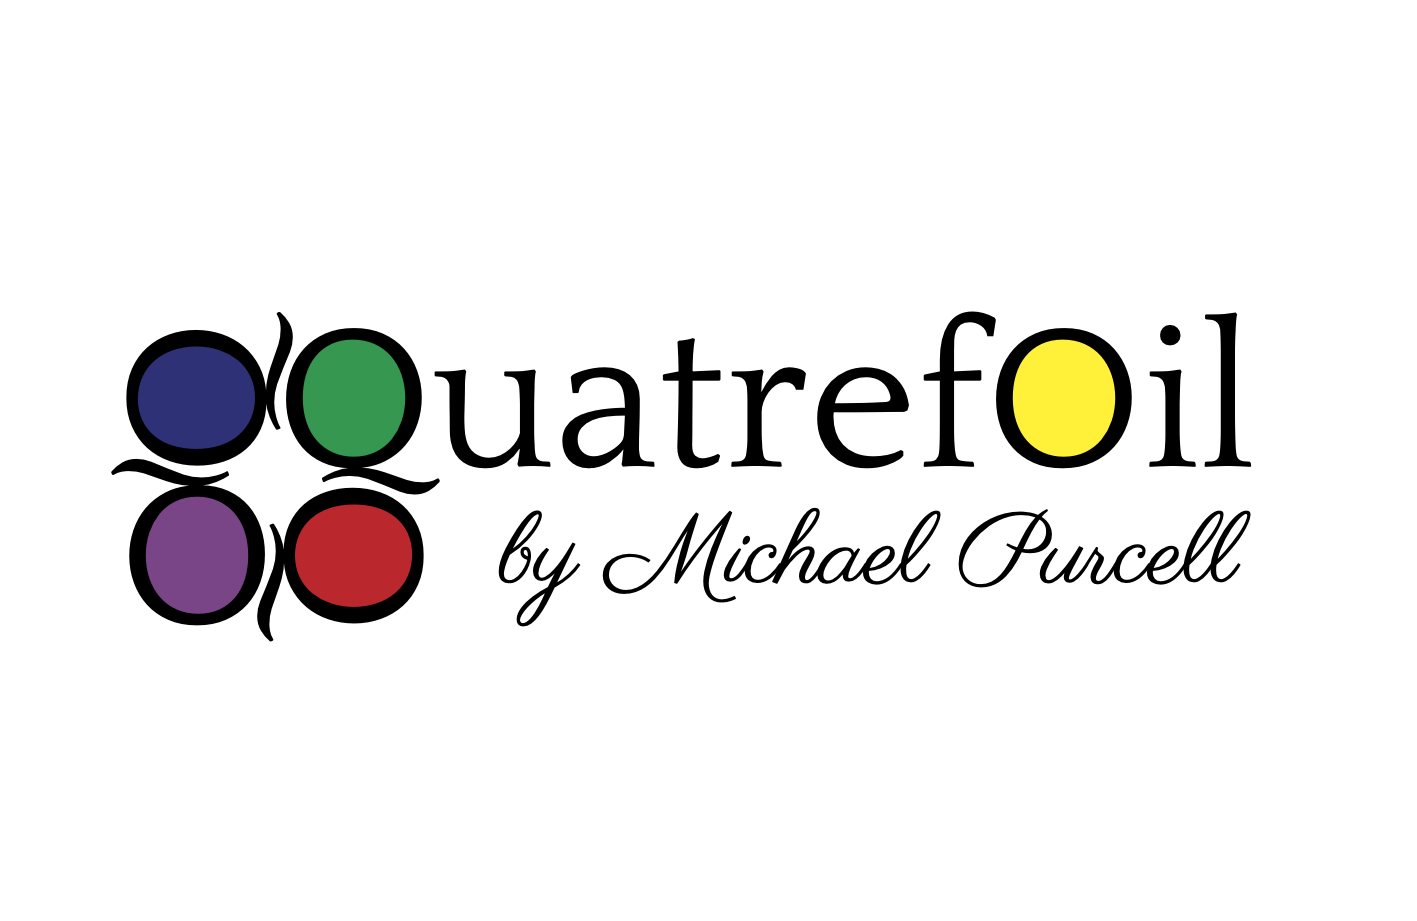
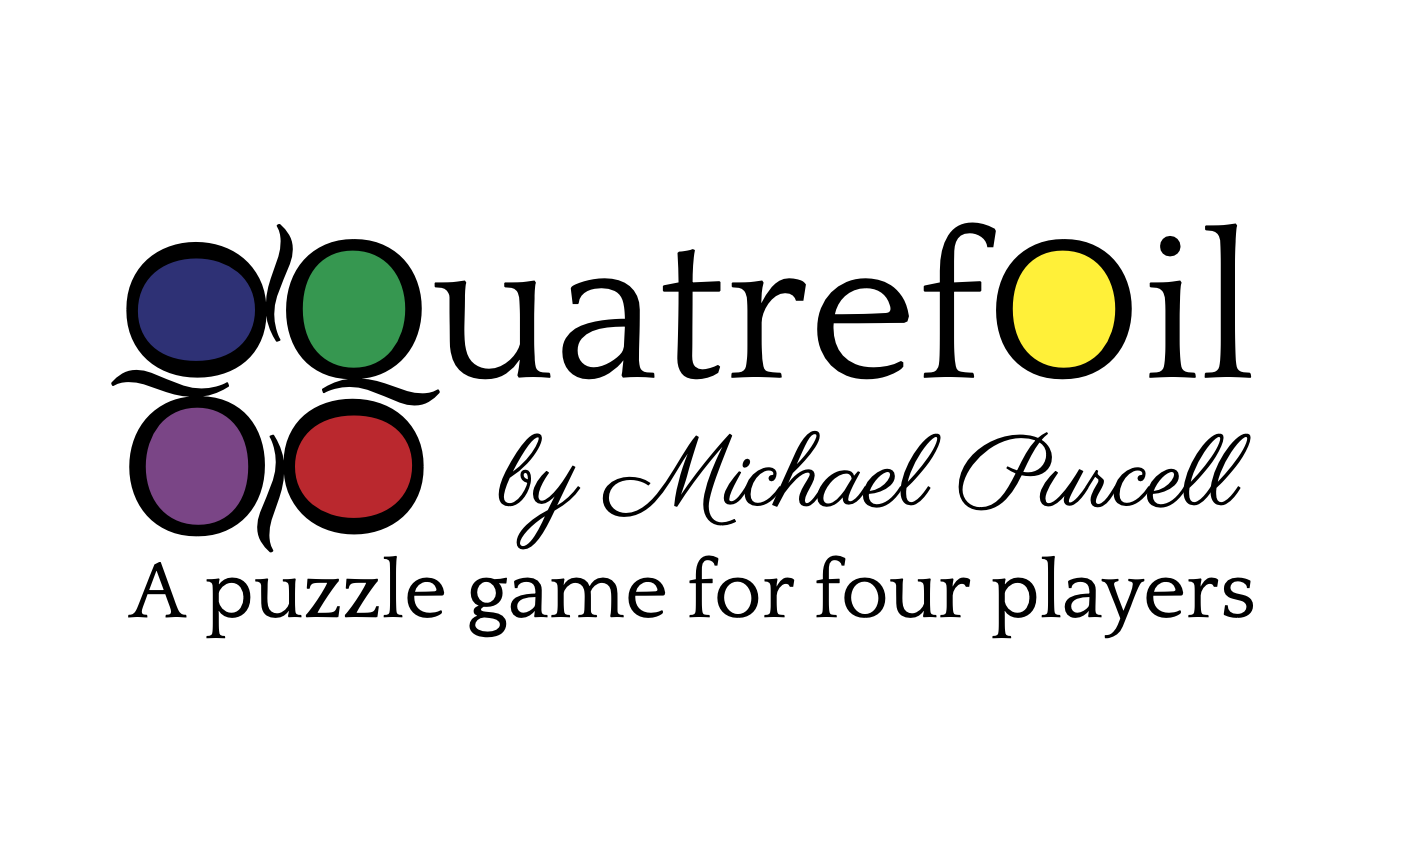
Update calling_card

Changed region(s): [[0.0621, 0.2413, 0.9005, 0.7541]]

diff --git a/calling_card.tex b/calling_card.tex
@@ -19,8 +19,10 @@
 
 
 	\node[anchor=east, inner sep=5pt] () at (0,0) {{\setmainfont{Quattrocento}\Huge uatrefOil}};
-	\node[anchor=east, inner sep=7pt] () at (0,-0.75) {{\setmainfont{Parisienne}\large by Michael Purcell}};
-	
+	\node[anchor=east, inner sep=7pt] () at (0,-0.8) {{\setmainfont{Parisienne}\large by Michael Purcell}};
+%		\node[anchor=east, inner sep=7pt] () at (0,-0.75) {{\setmainfont{Parisienne}\large A puzzle game}};
+		\node[anchor=east, inner sep=5pt] () at (0,-1.25) {{\setmainfont[Scale=0.985]{Quattrocento}A puzzle game for four players}};
+
 	\node[rotate=0] () at (-4, -0.09) {{\setmainfont{Quattrocento}\Huge Q}};
 	\node[rotate=-90] () at (-4.055, -0.7) {{\setmainfont{Quattrocento}\Huge Q}};
 	\node[rotate=180] () at (-4.665, -0.645) {{\setmainfont{Quattrocento}\Huge Q}};
@@ -30,6 +32,6 @@
 
 %	\node[circle, fill=Yellow, draw, minimum size=2.5, inner sep = 0pt] () at (-0.545,0.28) {};
 
-\path (-5.5,-2.25) to (0.5,1.65);
+\path (-5.5,-2.375) to (0.5,1.275);
 \end{tikzpicture}
 \end{document}
